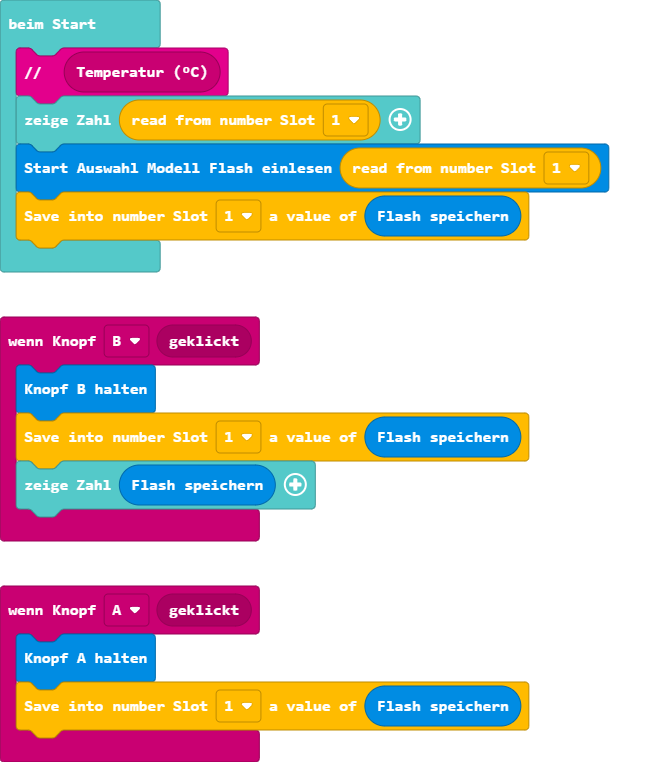
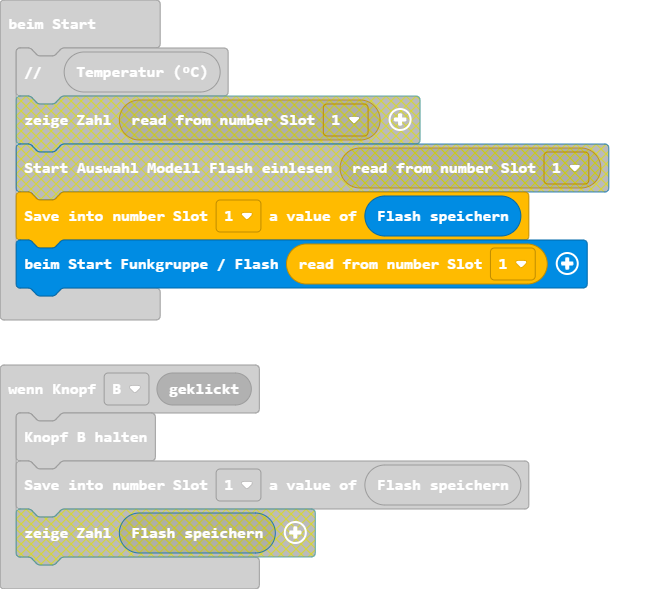
Aktualisiere pxt.json, main.blocks, main.ts

diff --git a/main.ts b/main.ts
@@ -5,9 +5,7 @@ input.onButtonEvent(Button.A, input.buttonEventClick(), function () {
 input.onButtonEvent(Button.B, input.buttonEventClick(), function () {
     sender.buttonB()
     storage.putNumber(StorageSlots.s1, sender.storageBufferGet())
-    basic.showNumber(sender.storageBufferGet())
 })
 radio.comment(input.temperature())
-basic.showNumber(storage.getNumber(StorageSlots.s1))
-sender.startAuswahl(storage.getNumber(StorageSlots.s1))
+sender.beimStart(storage.getNumber(StorageSlots.s1))
 storage.putNumber(StorageSlots.s1, sender.storageBufferGet())
